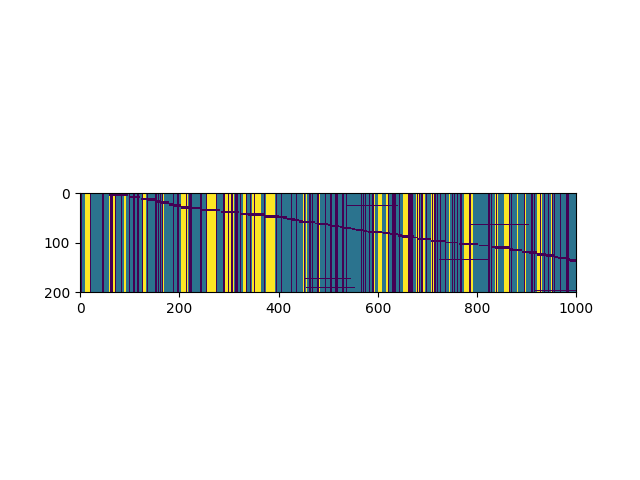
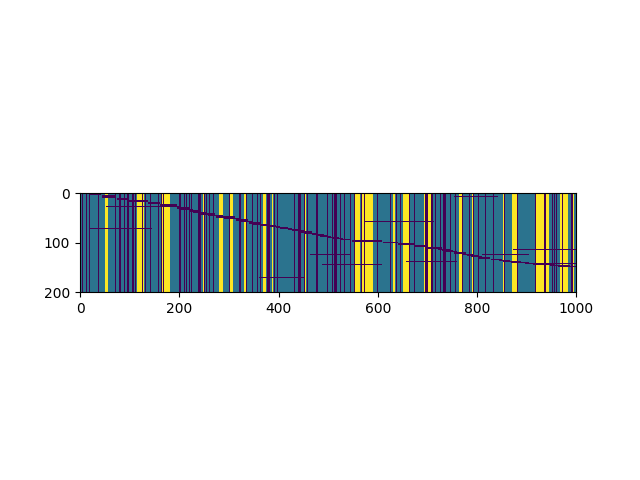
update main.py

Changed region(s): [[0.125, 0.4062, 0.9062, 0.625]]

diff --git a/main.py b/main.py
@@ -11,7 +11,7 @@ from ship_plan import Ship_plan
 def arg_parse():
 	parser = argparse.ArgumentParser()
 	parser.add_argument('-n', '--total_number_of_ships',
-						type=int, default=4)
+						type=int, default=6)
 	parser.add_argument('-t', '--total_step_by_three_hour',
 						type=int, default=int(20*365*(24/3)))
 	args = parser.parse_args()
@@ -19,8 +19,13 @@ def arg_parse():
 
 def main():
 	args = arg_parse()
+
+	wind_hist = np.load("data/wind_hist.npy")
+	can_work = np.load("data/can_work.npy")
+	broken_program = np.load("data/broken_program.npy")
+
 	print("read environment ...")
-	environment = Environment()
+	environment = Environment(data=(wind_hist, can_work, broken_program))
     
 	print("construct windfarm_state ...")
 	windfarm_state = Windfarm_state(environment)
